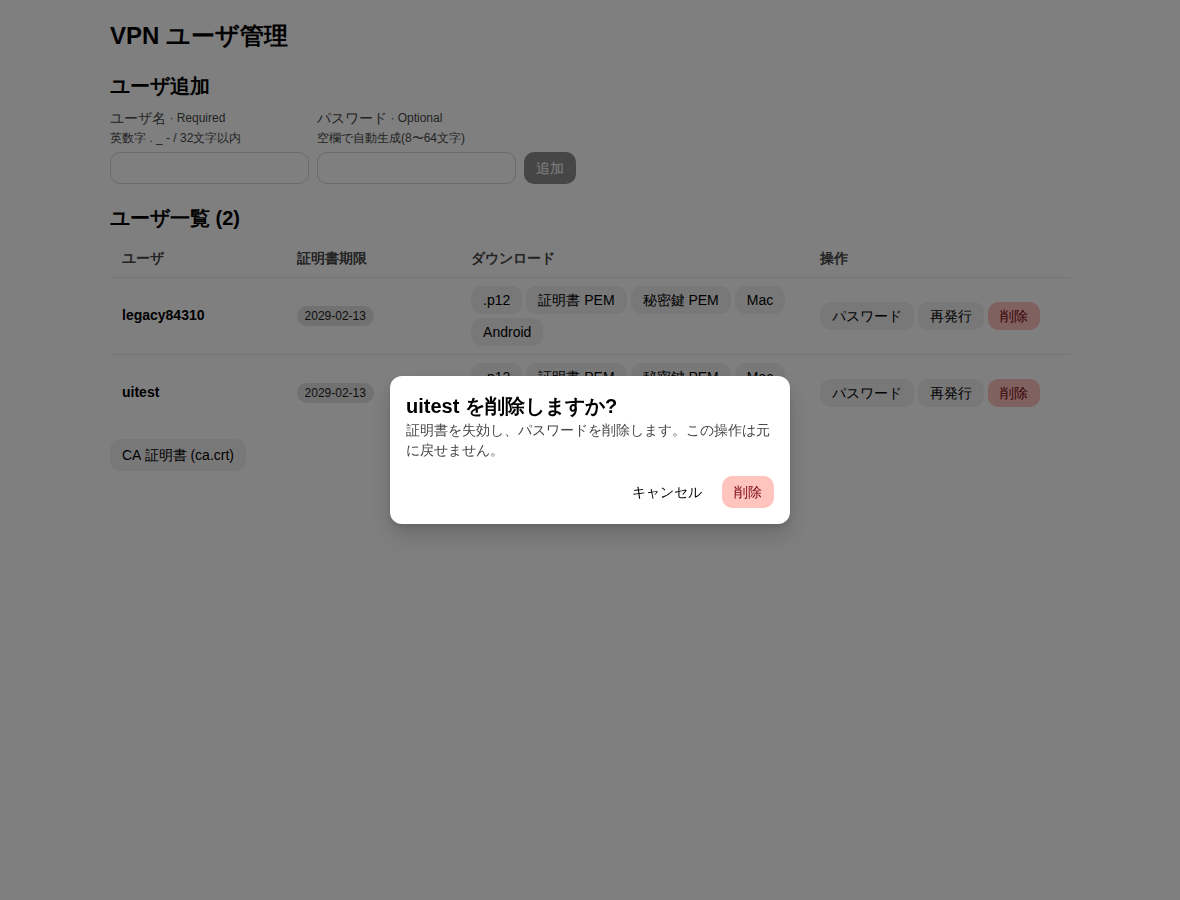
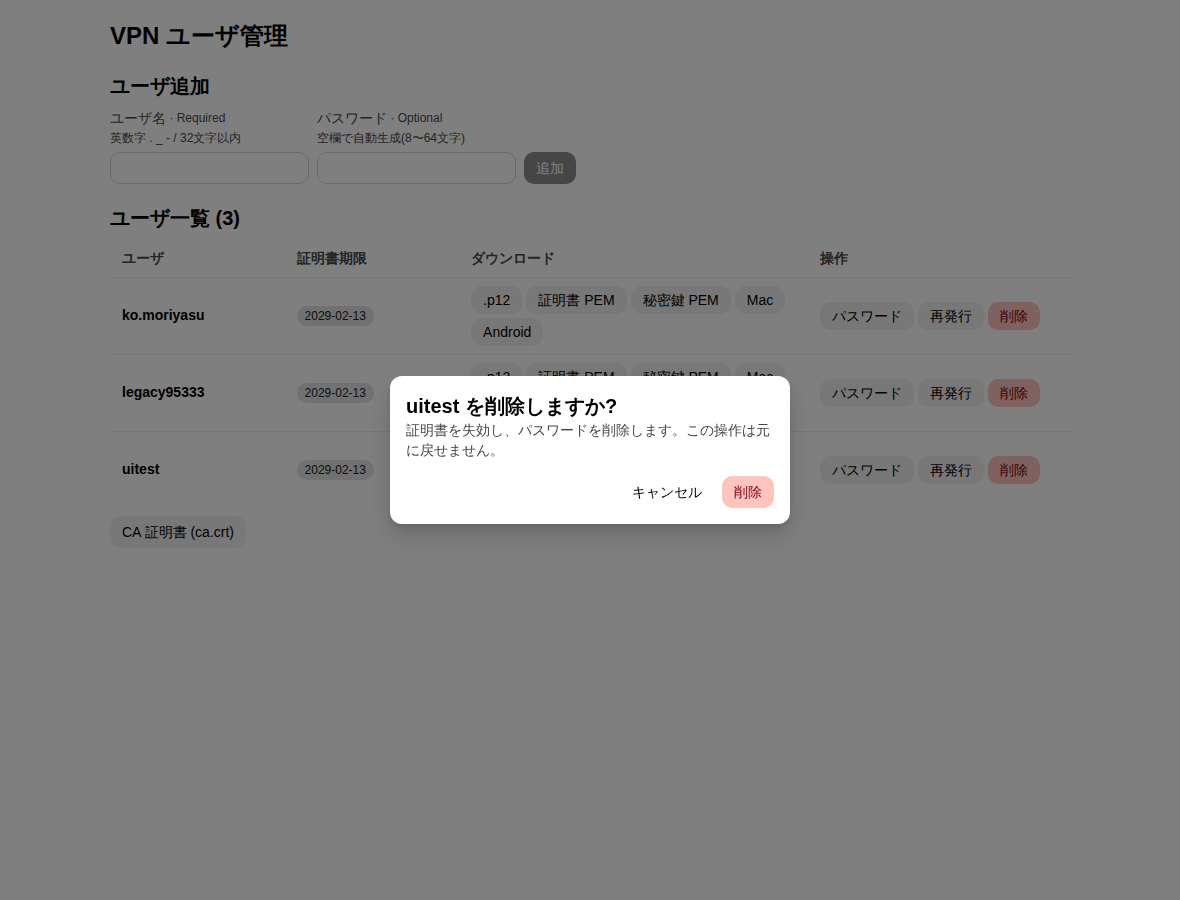
スプリットトンネル化、Mac のダブルクリック/Dock 対応、ドット入りユーザ名の不具合修正
- VPN に通す宛先を 192.168.90.0/24 のみに変更 (VPN_ROUTES)。クライアントが全通信を要求してもサーバが絞る。
  DNS は既定では配らない。Mac 用 connect.sh は --remote-ts、Android 用 .sswan は split-tunneling を指定
- Mac 用一式に VPN-Connect.command (ダブルクリックで接続) と Make-Dock-App.command (Dock 用アプリを作成) を同梱
  (macOS 上での動作は未確認)
- 修正: ドットを含むユーザ名を追加すると users.conf が文法エラーになり、接続定義ごとアンロードされて VPN 全体が
  止まる不具合。セクション名をユーザ名から独立させ、読み込み失敗時はユーザ追加を取り消す。回帰テストを追加
- Mac 実機 (Homebrew の strongSwan 6.1.0) で、証明書 → パスワードの MFA での接続と VPN 経由の通信を確認
  (docs/mac-real-device-log.txt)。スプリットトンネル変更後の実機での再確認は未実施
- 通しテスト 83件 PASS

diff --git a/admin/app.py b/admin/app.py
@@ -99,7 +99,7 @@ def api_credentials(u):
     if not USER_RE.match(u) or u not in [x for x, _ in users()]:
         abort(404)
     conf = open(f"{ROOT}/swanctl/conf.d/users.conf", encoding="utf-8").read()
-    m = re.search(r"eap-" + re.escape(u) + r' \{\s*id = [^\n]*\n\s*secret = "([^"\n]*)"', conf)
+    m = re.search(r'\n    id = "?' + re.escape(u) + r'"?\n\s*secret = "([^"\n]*)"', conf)
     if not m:
         abort(404)
     p12pw = None

diff --git a/TEST.md b/TEST.md
@@ -12,18 +12,20 @@
 |---|---|---|
 | 管理画面 UI (Playwright) | 27 | **全て PASS** |
 | 管理API 認証/CSRF/入力検証 (curl) | 17 | **全て PASS** |
-| クライアント用配布物: Android `.sswan` / Mac 用一式 (構造検証 + 実際に接続) | 24 | **全て PASS** (※実機は別記) |
+| クライアント用配布物: Android `.sswan` / Mac 用一式 (構造検証 + 実際に接続) | 29 | **全て PASS** |
+| 回帰: ドット等を含むユーザ名 | 7 | **全て PASS** |
 | CRL 自動更新 | 3 | **全て PASS** |
 | ダウンロードファイルの検証 (openssl) / VPN 接続 (UI 発行) | 5 / 8 シナリオ | **期待どおり** |
+| **Mac 実機** (Homebrew の strongSwan) | 手動 | **MFA で接続成功** ([ログ](docs/mac-real-device-log.txt)) |
 
-最終実行: `tests/run-all.sh` → `rc=0`、**PASS 71 件 / FAIL 0 件** (ログ: [docs/run-all.log](docs/run-all.log))。
+最終実行: `tests/run-all.sh` → `rc=0`、**PASS 83 件 / FAIL 0 件** (ログ: [docs/run-all.log](docs/run-all.log))。
 証跡は [docs/evidence/](docs/evidence/) にあります。
 
 > **Mac は標準の VPN 機能ではなく、Homebrew の strongSwan (`charon-cmd`) で接続します。** Apple 標準クライアントは証明書 + パスワードの
-> 2 段階認証(MFA)に対応していないためです ([詳細](#6-mac-の対応と実機iosmacでの確認結果))。Mac 用一式は Linux コンテナ上の本物の `charon-cmd` で
-> 接続まで確認しましたが、**Mac の実機では未確認**です。
+> 2 段階認証(MFA)に対応していないためです ([詳細](#6-mac-の対応と実機iosmacでの確認結果))。
+> **Mac の実機で、証明書 → パスワードの MFA での接続と、接続後の通信が VPN を通ることを確認済みです。**
 
-> **開発中に実際の不具合を6件発見し修正しました** (後述「発見した不具合と修正」)。いずれも修正後の最終実行で確認済みです。
+> **開発中に実際の不具合を7件発見し修正しました** (後述「発見した不具合と修正」)。いずれも修正後の最終実行で確認済みです。
 
 ## 再実行方法
 
@@ -206,6 +208,15 @@ UI からダウンロードしたファイルを openssl で検証。証跡: [op
 
 - 上記「フェーズ D」参照 (`Request cannot be constructed from a URL that includes credentials`)。API 呼び出しを `location.origin` 基準にして修正。
 
+### 不具合7: ドットを含むユーザ名を追加すると、VPN 全体が止まる (重大)
+
+- **症状**: `first.last` 形式のユーザを追加した後、全ユーザが接続できない (クライアントには `NO_PROPOSAL_CHOSEN`)。Mac 実機の接続テスト中に発覚。
+- **原因**: `users.conf` のセクション名に `eap-<ユーザ名>` を使っていた。strongSwan の設定の文法ではセクション名に `.` を使えず、
+  `syntax error` で設定ファイル全体が無効になり、接続定義とプールがすべてアンロードされた。
+- **修正**: セクション名をユーザ名のハッシュ (`eap-u<hex>`) にし、ユーザ名は `id = "..."` に持たせる。
+  さらに、設定の読み込みに失敗した場合は `adduser.sh` がユーザ追加を取り消してエラーを返す (VPN 全体を止めない)。
+- **確認**: 回帰テスト [tests/dotted-user.sh](tests/dotted-user.sh) (追加・接続・削除の前後で接続定義が残ること) を通しテストに追加。
+
 ### そのほか
 
 - 認証情報をURLに埋め込んで開くと `fetch` が失敗する (`Request cannot be constructed from a URL that includes credentials`)。API 呼び出しを `location.origin` 基準にし、表示後にURLから認証情報を除去するよう修正 (フェーズ D)。URLに認証情報を入れる使い方自体は、履歴等に残るため推奨しない。
@@ -239,10 +250,12 @@ UI からダウンロードしたファイルを openssl で検証。証跡: [op
 | VPN パスワードを同梱していない。接続時に `EAP password:` の入力を求める | PASS |
 | **同梱の `connect.sh` を本物の `charon-cmd` で実行して接続成功** (証明書認証 → パスワード → 仮想IP払い出し) | **成功** |
 | 同: 誤パスワードは拒否 | PASS |
+| スプリットトンネル: `connect.sh` は `--remote-ts 192.168.90.0/24`、`.sswan` は `split-tunneling.subnets`。クライアントが全通信を要求してもサーバが `192.168.90.0/24` に絞る | PASS |
+| ダブルクリック用 (`VPN-Connect.command`) / Dock 用 (`Make-Dock-App.command`) が同梱され、シェルの構文として正しい | PASS (macOS 上の動作は未確認) |
 | iOS/Mac 標準クライアント用 `.mobileconfig` は提供しない (404) | PASS |
 
-**注意:** 接続の確認は Linux コンテナ上の `charon-cmd` (Debian 版 strongSwan 6.0.1) で行った。Mac の実機 (Homebrew 版、カーネルは PF_KEY/pfroute) と
-Android の実機では未確認。テスト用コンテナでは Debian の `kernel-libipsec` プラグインがカーネル IPsec と競合するため無効にしている (Homebrew 版には含まれない)。
+**注意:** 自動テストでの接続の確認は Linux コンテナ上の `charon-cmd` (Debian 版 strongSwan 6.0.1) で行っている。Mac の実機は手動で確認済み (6章)。
+Android の実機では未確認。ダブルクリック用 / Dock 用の `.command` は、構文の確認のみで macOS 上の動作は未確認。テスト用コンテナでは Debian の `kernel-libipsec` プラグインがカーネル IPsec と競合するため無効にしている (Homebrew 版には含まれない)。
 
 ## 5.5 CRL の自動更新
 
@@ -281,12 +294,17 @@ CRL の有効期間(30日)が切れないよう、管理画面コンテナが定
 4. 採用: **Mac に strongSwan 本体を入れ (`brew install strongswan`)、`charon-cmd --profile ikev2-pub-eap` で接続する。** サーバの 2 段階認証は変更しない。
    管理画面の「Mac」ボタンで接続一式をダウンロードできる (5.2 参照)。
 
-制約: iPhone / iPad には使えない。Mac の実機での確認は未実施。
+5. **Mac の実機で確認 (手動)**: Homebrew の strongSwan 6.1.0 (macOS, arm64) で `./connect.sh` を実行し、証明書認証 → `EAP password:` 入力 →
+   EAP-MSCHAPv2 成功 → 仮想 IP の払い出し → トンネル確立まで成功した ([ログ](docs/mac-real-device-log.txt))。
+   接続後、Mac から外部の IP 確認サイトを開くと VPN サーバの IP が表示され、通信が VPN を通ることも確認した (この時点は全通信を VPN に通す設定)。
+6. その後、VPN に通す宛先を `192.168.90.0/24` のみに変更した (スプリットトンネル、`VPN_ROUTES`)。**変更後の設定での Mac 実機の再確認は未実施** (自動テストでは確認済み)。
+
+制約: iPhone / iPad には使えない。
 
 ## 7. 未実施・制約 (正直な記録)
 
-- **実機クライアント**: Android の strongSwan アプリでの `.sswan` の取り込みと接続、Mac 実機 (Homebrew 版) での `connect.sh` は未確認。iPhone / iPad は MFA では接続できない。Windows は未確認。
-- **インターネット到達性**: VPN 接続後の実トラフィック (NAT 経由の外部通信) は未確認。
+- **実機クライアント**: Mac 実機 (Homebrew 版) は確認済み (スプリットトンネル変更後の再確認と、ダブルクリック用 / Dock 用 `.command` は未確認)。Android の strongSwan アプリでの `.sswan` の取り込みと接続は未確認。iPhone / iPad は MFA では接続できない。Windows は未確認。
+- **通信経路**: 現在はスプリットトンネル (`192.168.90.0/24` 宛てのみ VPN 経由)。全通信を通す設定での外部通信は Mac 実機で確認済み。
 - **管理画面の外部遮断**: 8443 を許可IP以外から遮断する設定 (ufw + `DOCKER-USER`) は入れたが、許可外の回線からの接続拒否は未検証 (ホスト自身からの通信は `DOCKER-USER` を通らないため、この環境内では検証できない)。
 - **再起動後の復旧**: ホスト再起動後の自動復旧は未確認。
 - **失効ログの読み方**: `server-revocation.log` には、今回の証明書以外の失効エントリを含む行が複数出る。拒否の結果自体は V-5 のとおりだが、複数行が出る理由は未調査。
